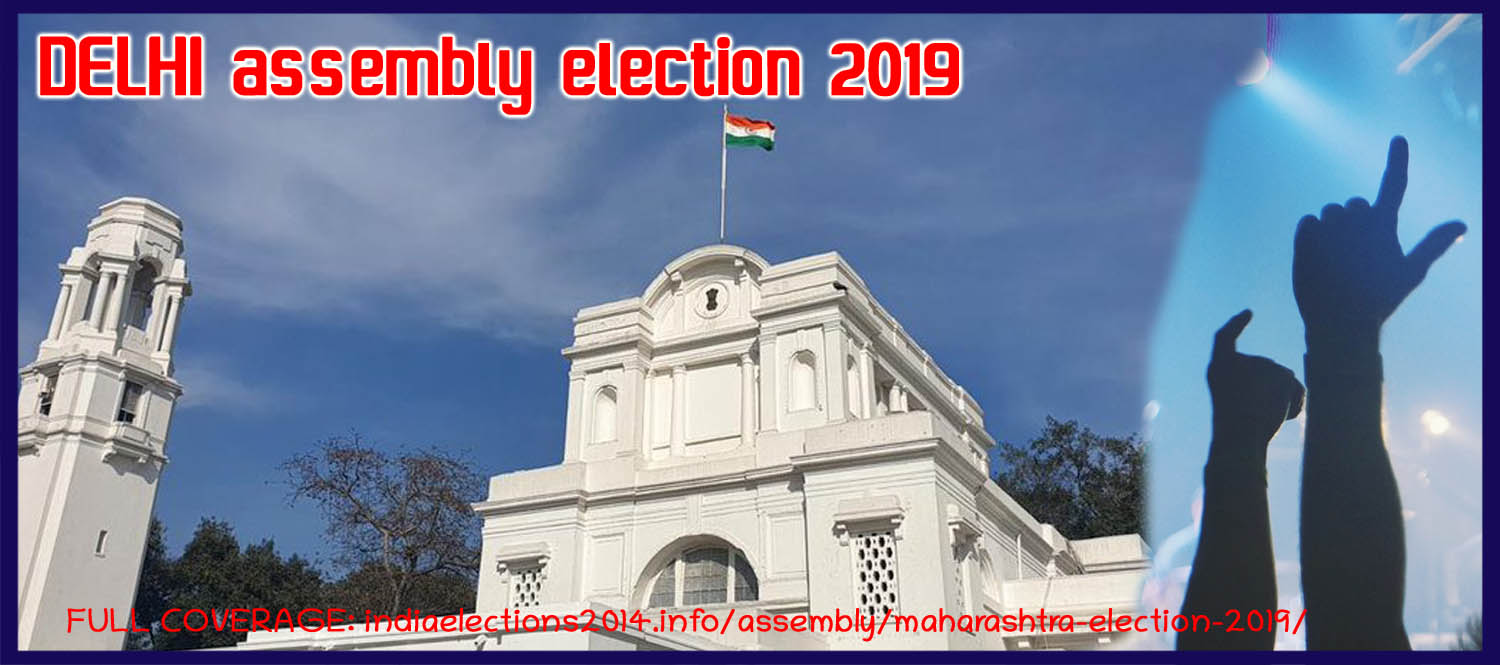
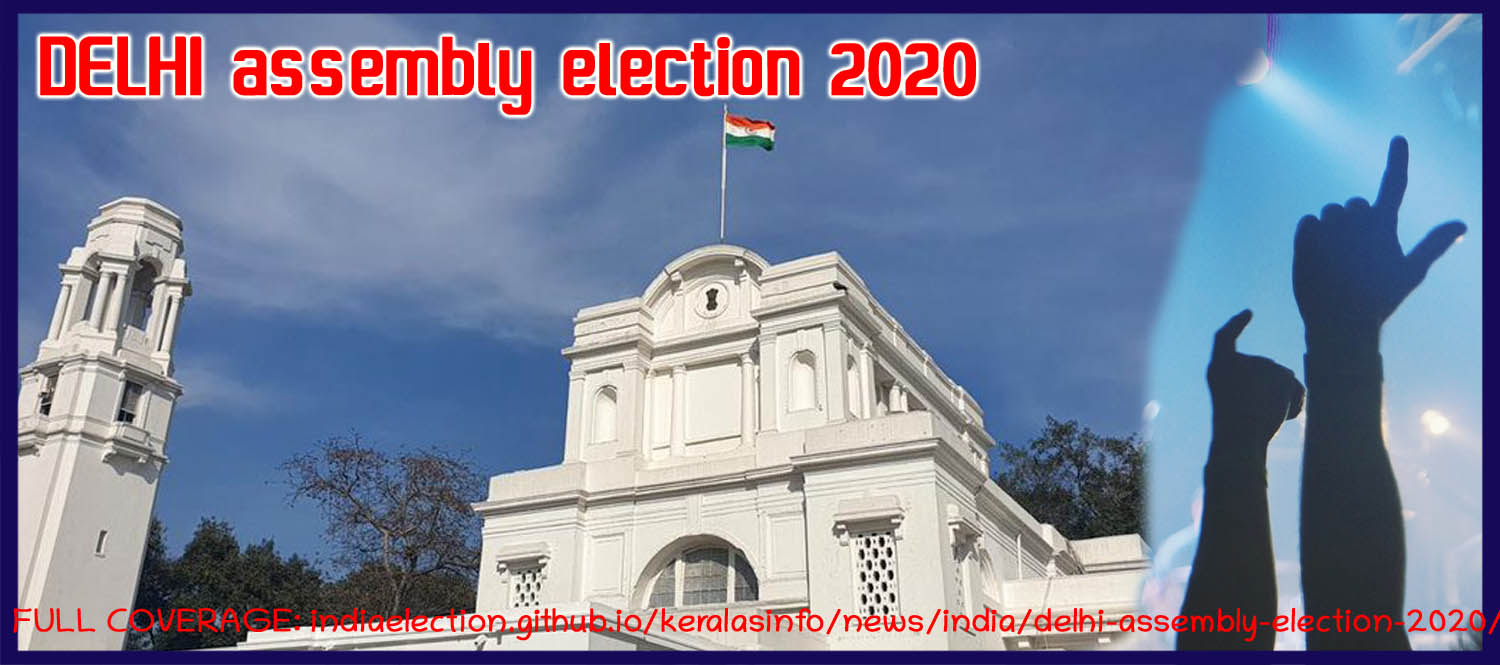
delhiassemblyelection2020
delhiassemblyelection2020

Changed region(s): [[0.0, 0.9023, 1.0, 0.9624], [0.5827, 0.0602, 0.6747, 0.1504]]

diff --git a/news/india/delhi-assembly-election-2020/delhi-assembly-election-2020-date/index.html b/news/india/delhi-assembly-election-2020/delhi-assembly-election-2020-date/index.html
@@ -3,7 +3,7 @@
   
 <head>
 <meta charset="utf-8">
-<title>kerala panchayat election 2020 date</title>
+<title>Delhi Assembly Election 2020 date</title>
 <link rel="canonical" href="https://indiaelection.github.io/keralasinfo/news/india/delhi-assembly-election-2020/kerala-panchayat-election-2020-date/">
 <meta name="viewport" content="width=device-width,minimum-scale=1,initial-scale=1">
 <style amp-boilerplate>body{-webkit-animation:-amp-start 8s steps(1,end) 0s 1 normal both;-moz-animation:-amp-start 8s steps(1,end) 0s 1 normal both;-ms-animation:-amp-start 8s steps(1,end) 0s 1 normal both;animation:-amp-start 8s steps(1,end) 0s 1 normal both}@-webkit-keyframes -amp-start{from{visibility:hidden}to{visibility:visible}}@-moz-keyframes -amp-start{from{visibility:hidden}to{visibility:visible}}@-ms-keyframes -amp-start{from{visibility:hidden}to{visibility:visible}}@-o-keyframes -amp-start{from{visibility:hidden}to{visibility:visible}}@keyframes -amp-start{from{visibility:hidden}to{visibility:visible}}</style>
@@ -15,8 +15,8 @@
 {
     "@context": "http://schema.org",
     "@type": "WebPage",
-    "name": "Results kerala panchayat election 2020",
-    "description": "This Web Page contains details results of kerala panchayat election 2020 ",
+    "name": "Results Delhi Assembly Election 2020",
+    "description": "This Web Page contains details results of Delhi Assembly Election 2020 ",
     "publisher": {
         "@type": "Organization",
         "name": "keralas.info"

diff --git a/news/india/delhi-assembly-election-2020/delhi-assembly-election-2020-contact-us/index.html b/news/india/delhi-assembly-election-2020/delhi-assembly-election-2020-contact-us/index.html
@@ -14,8 +14,8 @@
 {
     "@context": "http://schema.org",
     "@type": "WebPage",
-    "name": "Contact Us kerala panchayat election 2020",
-    "description": "This Web Page contains email contact details of kerala panchayat election 2020 website",
+    "name": "Contact Us Delhi Assembly Election 2020",
+    "description": "This Web Page contains email contact details of Delhi Assembly Election 2020 website",
     "publisher": {
         "@type": "Organization",
         "name": "keralas.info"

diff --git a/news/india/delhi-assembly-election-2020/delhi-assembly-election-2020-news/index.html b/news/india/delhi-assembly-election-2020/delhi-assembly-election-2020-news/index.html
@@ -15,8 +15,8 @@
 {
     "@context": "http://schema.org",
     "@type": "WebPage",
-    "name": "Results kerala panchayat election 2020",
-    "description": "This Web Page contains details results of kerala panchayat election 2020 ",
+    "name": "Results Delhi Assembly Election 2020",
+    "description": "This Web Page contains details results of Delhi Assembly Election 2020 ",
     "publisher": {
         "@type": "Organization",
         "name": "keralas.info"

diff --git a/news/india/delhi-assembly-election-2020/delhi-assembly-election-2020-results/index.html b/news/india/delhi-assembly-election-2020/delhi-assembly-election-2020-results/index.html
@@ -15,8 +15,8 @@
 {
     "@context": "http://schema.org",
     "@type": "WebPage",
-    "name": "Results kerala panchayat election 2020",
-    "description": "This Web Page contains details results of kerala panchayat election 2020 ",
+    "name": "Results Delhi Assembly Election 2020",
+    "description": "This Web Page contains details results of Delhi Assembly Election 2020 ",
     "publisher": {
         "@type": "Organization",
         "name": "keralas.info"

diff --git a/news/india/delhi-assembly-election-2020/delhi-assembly-election-2020-voters_list/index.html b/news/india/delhi-assembly-election-2020/delhi-assembly-election-2020-voters_list/index.html
@@ -15,8 +15,8 @@
 {
     "@context": "http://schema.org",
     "@type": "WebPage",
-    "name": "Results kerala panchayat election 2020",
-    "description": "This Web Page contains details results of kerala panchayat election 2020 ",
+    "name": "Results Delhi Assembly Election 2020",
+    "description": "This Web Page contains details results of Delhi Assembly Election 2020 ",
     "publisher": {
         "@type": "Organization",
         "name": "keralas.info"
